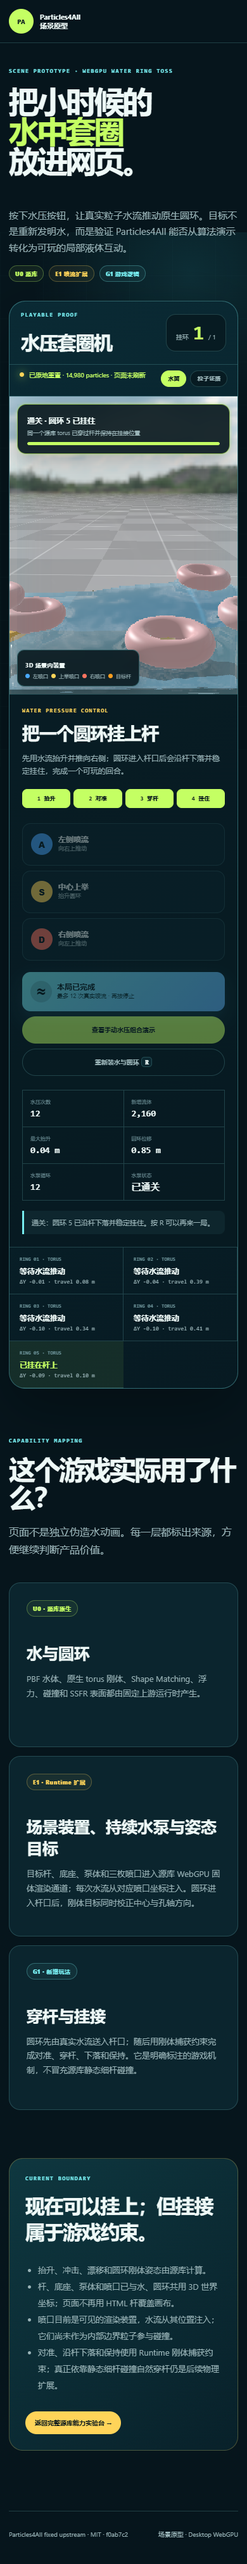
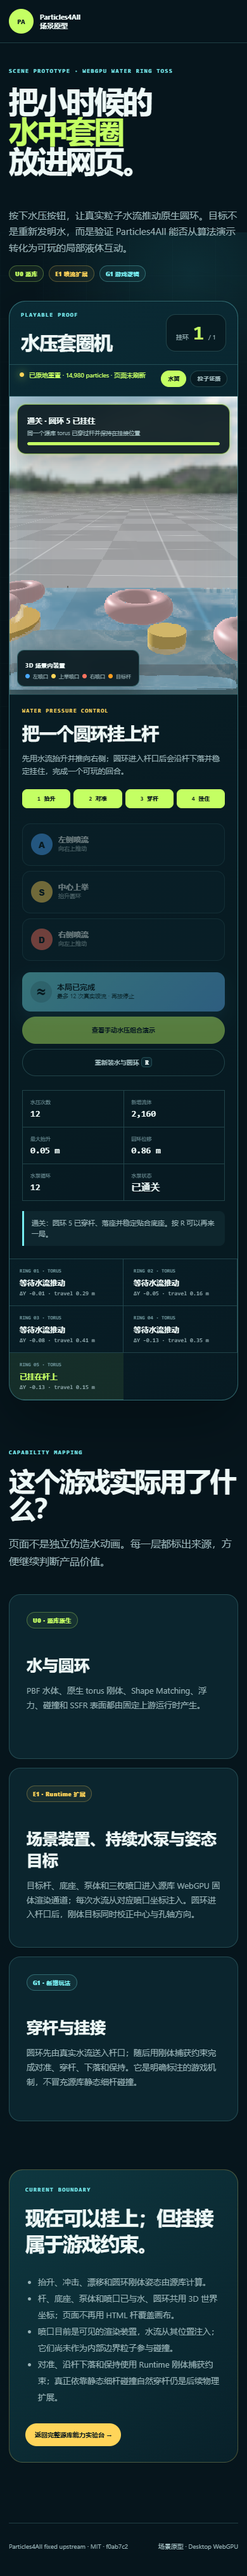
fix: ground ring after peg capture

diff --git a/docs/demos/particles4all/water-ring-game/app.js b/docs/demos/particles4all/water-ring-game/app.js
@@ -15,16 +15,26 @@ const source = Object.freeze({
   runtime: '../engine/',
   bodies: 'torus:0.38:0.17,torus:0.42:0.19,torus:0.46:0.21,torus:0.50:0.23,torus:0.54:0.25'
 });
+const geometry = Object.freeze({
+  ringMajorRadius: 0.078,
+  ringTubeRadius: 0.078 * 0.4,
+  postRadius: 0.025,
+  baseTop: 0.09,
+  seatClearance: 0.004,
+  seatRadialOffset: 0.014
+});
 const level = Object.freeze({
   id: 'single-peg-01',
+  geometry,
   peg: Object.freeze({
-    base: [1.20, 0.08, 0.50],
+    base: [1.20, 0.045, 0.50],
     mouth: [1.20, 0.43, 0.50],
     thread: [1.20, 0.29, 0.50],
-    seat: [1.20, 0.18, 0.50]
+    seat: [1.20 + geometry.seatRadialOffset,
+      geometry.baseTop + geometry.ringTubeRadius + geometry.seatClearance, 0.50]
   }),
   capture: Object.freeze({ xMin: 0.82, xMax: 1.44, yMin: 0.17, yMax: 0.62, zMin: 0.20, zMax: 0.80, travelMin: 0.09 }),
-  phases: Object.freeze({ alignMs: 900, threadMs: 900, settleMs: 750 }),
+  phases: Object.freeze({ alignMs: 900, threadMs: 900, settleMinMs: 520 }),
   pumpMaxCycles: 12
 });
 const state = {
@@ -131,7 +141,7 @@ function renderProgress() {
     visualState = 'running';
   }
   if (state.capture) {
-    const phaseCopy = { align: '水流已送达杆口，正在扶正圆环孔轴', thread: '孔轴已对准，圆环正在沿杆下落', hang: '圆环已经穿杆，正在稳定挂接' };
+    const phaseCopy = { align: '水流已送达杆口，正在扶正圆环孔轴', thread: '孔轴已对准，圆环正在沿杆下落', hang: '圆环已经穿杆，正在贴合底座接触面' };
     title = `目标圆环 ${state.capture.bodyId} · ${state.phase === 'align' ? '对准' : state.phase === 'thread' ? '穿杆' : '挂接'}`;
     copy = phaseCopy[state.phase] || copy;
     progress = { align: 68, thread: 82, hang: 94 }[state.phase] || 64;
@@ -139,7 +149,7 @@ function renderProgress() {
   }
   if (state.won) {
     title = `通关 · 圆环 ${state.capture.bodyId} 已挂住`;
-    copy = '同一个源库 torus 已穿过杆并保持在挂接位置';
+    copy = '同一个源库 torus 已穿过杆、落到底座并保持稳定';
     progress = 100;
     visualState = 'complete';
   } else if (state.error) {
@@ -200,7 +210,8 @@ function isInsideCapture(body) {
 
 async function beginCapture(body, reason = 'water-entry') {
   if (state.capture || state.won) return false;
-  state.capture = { bodyId: body.id, phaseAt: performance.now(), reason };
+  state.capture = { bodyId: body.id, phaseAt: performance.now(), reason,
+    lastCentre: [...body.pose.centre], stableSamples: 0 };
   state.phase = 'align';
   recordEvent('capture-start', { bodyId: body.id, reason, pumpCycles: state.pumpCycles });
   if (state.pumpActive) stopPump('captured');
@@ -223,18 +234,48 @@ async function updateCapture(body) {
   } else if (state.phase === 'thread' && (distanceTo(body.pose.centre, level.peg.thread) < 0.035 || elapsed > level.phases.threadMs)) {
     state.phase = 'hang';
     state.capture.phaseAt = performance.now();
-    await adapter.holdBody({ bodyId: body.id, target: level.peg.seat, rate: 14, limit: 0.65, align: true });
-    recordEvent('capture-hang', { bodyId: body.id });
-    dom.status.textContent = `圆环 ${body.id} 已穿过杆口，正在落到挂接位置。`;
+    state.capture.lastCentre = [...body.pose.centre];
+    state.capture.stableSamples = 0;
+    state.capture.holdTarget = [...level.peg.seat];
+    await adapter.holdBody({ bodyId: body.id, target: state.capture.holdTarget, rate: 10, limit: 0.48, align: true });
+    recordEvent('capture-hang', { bodyId: body.id, seat: [...level.peg.seat] });
+    dom.status.textContent = `圆环 ${body.id} 已穿过杆口，正在沿杆落到底座接触面。`;
     renderObjective();
-  } else if (state.phase === 'hang' && (distanceTo(body.pose.centre, level.peg.seat) < 0.026 || elapsed > level.phases.settleMs)) {
+  } else if (state.phase === 'hang') {
+    const movement = distanceTo(body.pose.centre, state.capture.lastCentre);
+    const seatDistance = distanceTo(body.pose.centre, level.peg.seat);
+    const contactGap = body.pose.centre[1] - geometry.ringTubeRadius - geometry.baseTop;
+    const radialOffset = Math.hypot(body.pose.centre[0] - level.peg.base[0],
+      body.pose.centre[2] - level.peg.base[2]);
+    const postClearance = geometry.ringMajorRadius - geometry.ringTubeRadius -
+      geometry.postRadius - radialOffset;
+    state.capture.lastCentre = [...body.pose.centre];
+    const visualContact = contactGap >= -0.004 && contactGap <= 0.012 && postClearance >= -0.002;
+    const inSeatZone = seatDistance < 0.010 && visualContact;
+    state.capture.stableSamples = movement < 0.008 && inSeatZone
+      ? state.capture.stableSamples + 1 : 0;
+    if (state.capture.stableSamples < 2 && !inSeatZone) {
+      state.capture.holdTarget = state.capture.holdTarget.map((value, index) => {
+        const correction = Math.max(-0.008, Math.min(0.008,
+          (level.peg.seat[index] - body.pose.centre[index]) * 0.65));
+        const margin = index === 1 ? 0.035 : 0.020;
+        return Math.max(level.peg.seat[index] - margin,
+          Math.min(level.peg.seat[index] + margin, value + correction));
+      });
+      await adapter.holdBody({ bodyId: body.id, target: state.capture.holdTarget,
+        rate: 10, limit: 0.42, align: true });
+    }
+    const visiblySettled = elapsed > level.phases.settleMinMs && state.capture.stableSamples >= 2;
+    if (!visiblySettled) return;
     state.won = true;
     state.scored.add(body.id);
     state.score = 1;
-    recordEvent('game-complete', { bodyId: body.id, pumpCycles: state.pumpCycles, fluidAdded: state.fluidAdded });
+    recordEvent('game-complete', { bodyId: body.id, pumpCycles: state.pumpCycles,
+      fluidAdded: state.fluidAdded, seatDistance, contactGap, radialOffset, postClearance,
+      stableSamples: state.capture.stableSamples });
     stopPump('won');
     dom.score.textContent = '1';
-    dom.status.textContent = `通关：圆环 ${body.id} 已沿杆下落并稳定挂住。按 R 可以再来一局。`;
+    dom.status.textContent = `通关：圆环 ${body.id} 已穿杆、落座并稳定贴合底座。按 R 可以再来一局。`;
     renderObjective();
     setControls(false);
     celebrate();

diff --git a/docs/demos/particles4all/water-ring-game/index.html b/docs/demos/particles4all/water-ring-game/index.html
@@ -57,7 +57,7 @@
         <aside class="control-card">
           <p class="control-kicker">WATER PRESSURE CONTROL</p>
           <h3>把一个圆环挂上杆</h3>
-          <p class="control-copy">先用水流抬升并推向右侧；圆环进入杆口后会沿杆下落并稳定挂住，完成一个可玩的回合。</p>
+          <p class="control-copy">先用水流抬升并推向右侧；圆环进入杆口后会沿杆下落，贴合底座接触面并稳定挂住，完成一个可玩的回合。</p>
 
           <ol id="objective-track" class="objective-track" aria-label="通关步骤">
             <li data-phase="lift" class="active">1 抬升</li>
@@ -96,12 +96,12 @@
       <div class="mapping-grid">
         <article><span class="label u0">U0 · 源库原生</span><h3>水与圆环</h3><p>PBF 水体、原生 torus 刚体、Shape Matching、浮力、碰撞和 SSFR 表面都由固定上游运行时产生。</p></article>
         <article><span class="label e1">E1 · Runtime 扩展</span><h3>场景装置、持续水泵与姿态目标</h3><p>目标杆、底座、泵体和三枚喷口进入源库 WebGPU 固体渲染通道；每次水流从对应喷口坐标注入。圆环进入杆口后，刚体目标同时校正中心与孔轴方向。</p></article>
-        <article><span class="label g1">G1 · 新增玩法</span><h3>穿杆与挂接</h3><p>圆环先由真实水流送入杆口；随后用刚体捕获约束完成对准、穿杆、下落和保持。它是明确标注的游戏机制，不冒充源库静态细杆碰撞。</p></article>
+        <article><span class="label g1">G1 · 新增玩法</span><h3>穿杆、落座与挂接</h3><p>圆环先由真实水流送入杆口；随后用刚体捕获约束完成对准、穿杆和沿杆下落，并按圆环管半径与底座顶面计算接触位置。它是明确标注的游戏机制，不冒充源库静态细杆碰撞。</p></article>
       </div>
     </section>
 
     <section id="boundary" class="boundary shell">
-      <div><p class="kicker">CURRENT BOUNDARY</p><h2>现在可以挂上；但挂接属于游戏约束。</h2></div>
+      <div><p class="kicker">CURRENT BOUNDARY</p><h2>现在可以穿杆并落座；但挂接仍属于游戏约束。</h2></div>
       <ul><li>抬升、冲击、漂移和圆环刚体姿态由源库计算。</li><li>杆、底座、泵体和喷口已与水、圆环共用 3D 世界坐标；页面不再用 HTML 杆覆盖画布。</li><li>喷口目前是可见的渲染装置，水流从其位置注入；它们尚未作为内部边界粒子参与碰撞。</li><li>对准、沿杆下落和保持使用 Runtime 刚体捕获约束；真正依靠静态细杆碰撞自然穿杆仍是后续物理扩展。</li></ul>
       <a href="../">返回完整源库能力实验台 →</a>
     </section>

diff --git a/projects/particles4all/WATER_RING_GAME.md b/projects/particles4all/WATER_RING_GAME.md
@@ -30,10 +30,11 @@
 12. 连续重置并启动三局均须在 20 秒内通关；运行事件必须包含 `game-ready`、`pump-start`、`fluid-pulse` 和 `game-complete`。
 13. 杆、底座、泵体和三个喷口必须进入引擎固体渲染通道并使用世界坐标，禁止用画布外 HTML 几何替代。
 14. 每个 `fluid-pulse` 必须记录并使用一个可见喷口；运行中的喷口必须通过场景材质状态提供可观察反馈。
+15. 穿杆后的圆环必须按 torus 管半径落到底座顶面，杆仍须位于圆环孔内；连续两个落座采样稳定后才可显示通关，禁止悬空或穿入底座。
 
 ## 下一 Gate
 
-当前已完成“一个圆环、一个单杆”的完整可玩回合：水泵锁定一个目标环，从场景内三个固定喷口选择接近目标的喷口，最多注入 12 次真实水脉冲；活跃喷口同步变亮。进入杆口后由 Runtime 刚体捕获约束完成对准、穿杆、下落和保持。若 12 次后圆环已有可测水动力位移但随机漂移未进入杆口，游戏层会进入杆口导向，以保证不同性能设备上仍可完成。
+当前已完成“一个圆环、一个单杆”的完整可玩回合：水泵锁定一个目标环，从场景内三个固定喷口选择接近目标的喷口，最多注入 12 次真实水脉冲；活跃喷口同步变亮。进入杆口后由 Runtime 刚体捕获约束完成对准、穿杆和沿杆下落；最终位置由底座顶面、torus 管半径、4 mm 视觉间隙和 14 mm 靠杆偏移计算，并通过位置反馈补偿重力造成的约束下沉。连续两个采样位于落座区域后才通关。若 12 次后圆环已有可测水动力位移但随机漂移未进入杆口，游戏层会进入杆口导向，以保证不同性能设备上仍可完成。
 
 杆、底座、泵体和喷口现在与水体、圆环共用引擎相机、透视和 SSFR/粒子显示通道；重置与显示切换均为原地状态更新。装置当前属于渲染与交互来源映射，还不是求解器内部的静态边界粒子，因此不声称已经完成真实细杆碰撞。
 
